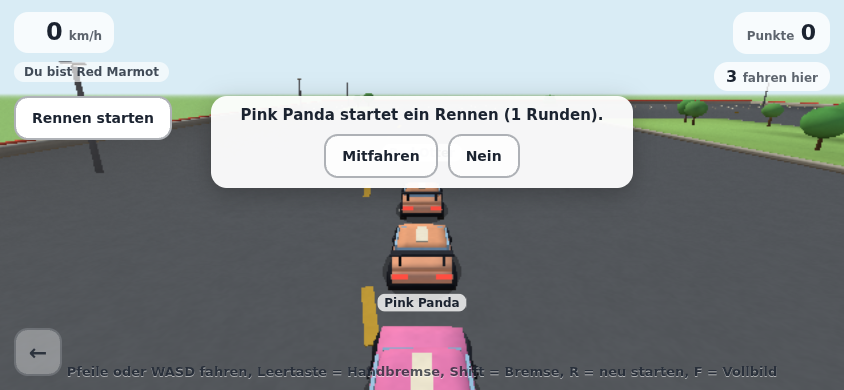
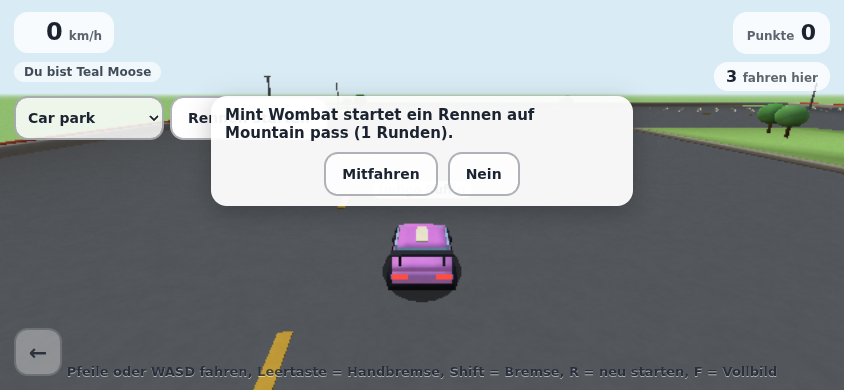
Milestone 5: guest and map run tools, a fix for a late lobby welcome in the page, STATE (93 + 32 tests green)

diff --git a/game/main.js b/game/main.js
@@ -70,6 +70,8 @@ const cam = new FollowCam(camera, coarse ? { dist: 9.5, height: 4.6, look: 4.5 }
 const input = new Input($('touch'));
 const hud = new Hud(T);
 const remotes = online ? new Remotes({ scene, pool, smoke, skids, camera, tagsEl: $('tags'), lite }) : null;
+// the state, declared before anything can call back (a socket may welcome us while the module still waits for a file)
+let cur, prev, score, spin = 0, simSteps = 0, paused = false;
 let net = null, spawned = false, locked = false;
 const raceMode = online && document.documentElement.dataset.race === '1';   // the signed-in app: races (the public demo has none)
 const lobbyUrl = params.get('ws') || `${location.protocol === 'https:' ? 'wss' : 'ws'}://${location.host}/ws?car=${carIndex}`;
@@ -99,7 +101,8 @@ function openNet(url, inRace) {
     url,
     onWelcome(me) {
       if (!inRace && !spawned) {
-        const g = raceMode ? { x: map.lobbySpawn.x + (me.id % 8) * 6 - 20, z: map.lobbySpawn.z, h: map.lobbySpawn.h } : map.grid[me.id % map.grid.length];
+        const ls = mapJson.lobbySpawn;   // the lobby is the car park, whichever map is drawn at this moment
+        const g = raceMode ? { x: ls.x + (me.id % 8) * 6 - 20, z: ls.z, h: ls.h } : map.grid[me.id % map.grid.length];
         cur = prev = makeCar(g.x, g.z, g.h); score = newScore(); cam.snap(cur); spawned = true;
       }
       droppedBtn.hidden = true;
@@ -200,7 +203,6 @@ if (online) {
 }
 
 // ----- state
-let cur, prev, score, spin = 0, simSteps = 0, paused = false;
 const loop = new FixedLoop();
 function reset() {
   const s = map.lobbySpawn ?? map.grid[0];

diff --git a/docs/STATE.md b/docs/STATE.md
@@ -1,6 +1,6 @@
 # State: where drift stands (hand-over page)
 
-Updated 2026-11-26 by the building session. Every session updates this page at the end of its work.
+Updated 2026-11-26 (evening) by the building session. Every session updates this page at the end of its work.
 
 ## Done
 
@@ -19,6 +19,14 @@ Updated 2026-11-26 by the building session. Every session updates this page at t
 - **Looked at in a browser** (headless, software graphics, the published app on a throwaway PostgreSQL, three throwaway accounts): the garage at 390x844 (phone) and 1280x860 (wide), saving a choice, and three signed-in people in the lobby seeing each other with their garage names and cars. Pictures `docs/screenshots/m2-garage-phone.png`, `m2-garage-wide.png`, `m2-lobby.png`. German texts only (the browser language was German); English is in the files and checked for the same keys, **not looked at**. Light mode only; **dark mode not looked at**.
 - **Not checked:** `docker compose up -d --build` (the machine has no .NET SDK image and there is no network pull; the Dockerfile copies `server/Relay`, `game` and `vendor/three` and `dotnet publish` was run locally to see the layout), sign-in through the hub, a real phone, Safari, the garage with a screen reader, the install as a PWA, a restart of the app with people in the lobby, more than three people at once in the signed-in lobby (the relay itself was tested with 16).
 - **Decided by the orchestrator:** accent 350 stays; 16 connections per address; **without a nickname the others see a neutral name (colour word that follows the car colour + an animal that follows the person's id), never the account name** (the same for one person every time, so a board can show it too).
+
+## Milestone 5: five maps and guests (built 2026-11-26)
+
+- **Five maps** (`game/data/maps.json`; made by `tools/make-map.mjs` and `tools/make-maps.mjs`): Car park (also the lobby, 389 m), Harbour at night (758 m, wet, containers, lamps, dark), Mountain pass (1336 m, narrow road between rails and a rock wall, hairpins of about 12 m radius, 2 laps), Desert (1157 m, sand, an asphalt patch at the start, rocks, 2 laps), Winter track (805 m, snow, three ice patches, pines). Physics is flat; ground type along a road comes from the map file. A race can be on any map (the starter chooses), the best times are per map, the relay of the race follows the map's size. Pictures `docs/screenshots/map-*.png`. The harbour has no hairpin (the description in ARCHITECTURE section 7 promised one); the numbers are a first draft, nobody has driven the maps yet.
+- **Guests:** an administrator makes a link in Settings (hours 1 to 12, uses 1 to 20, at most 5 valid links; shown once; only a hash is kept); a friend opens `/g/#secret`, chooses a name and drives (lobby and races, first car, random colour, no garage); the guest's times are shown but never stored; ending one link or all links sends the guests out at once. It is an own door (`/api/guest`, SEC-07) with its own cookie; a guest reaches nothing else.
+- **Tests:** 93 .NET and 32 Node tests green (guests: who may make links, limits, wrong/expired/ended/used-up links refused alike, names checked, hashes only in the database, door ignores a person's cookie and the other way round, sockets, end-all closes the socket, times not stored; maps: loop, grid, ground, a steady driver gets round every map without a hit, a lap counts on every map). Found and fixed on the way: a race on another map could throw in the page when the lobby welcome came late.
+- **Seen in a browser** (headless, software graphics): a guest link made in the settings, opened, name chosen, the guest and a person see each other, end-all sends the guest out; a race on the mountain map with three cars (invitation, map switch, countdown, driving). Not seen: a finished race on a new map, a real phone, English texts, dark mode, `docker compose`.
+- **The owner's wish (2026-11-26):** accounts must be easy: **one name and password for all games**, kept simple. Not built; today an account is the base's (password plus authenticator) or the hub's. To be talked through with the owner together with design and details.
 
 ## More steering angle (2026-11-26, the owner: "the drift game needs more steering angle")
 
@@ -120,4 +128,4 @@ These are the **starting numbers, not tuned by a person**: the cars differ in th
 
 ## Next
 
-Milestone 5 (five maps, guests) waits for the orchestrator's go. Not started: other maps, guest links, a race of more than one map.
+All five milestones of SCOPE are built. Waits for the owner: design and details, and simple accounts (one name and password for all games).
